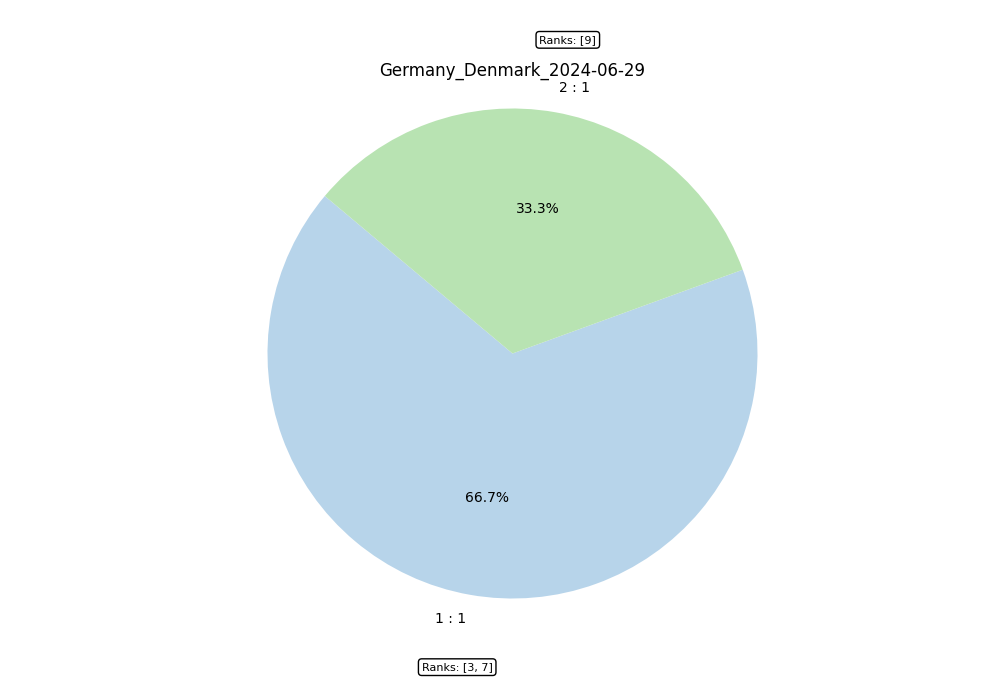
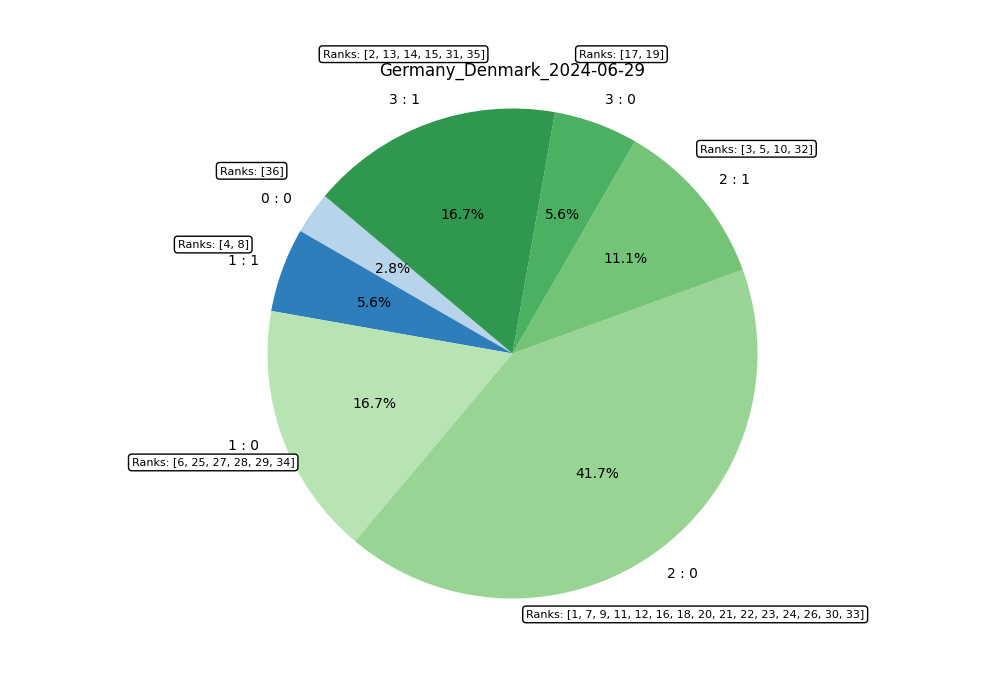
add guesses

diff --git a/spot_5.py b/spot_5.py
@@ -10,6 +10,9 @@ import matplotlib.pyplot as plt
 from collections import Counter
 import numpy as np
 from tqdm import tqdm
+import datetime
+import json
+
 
 
 def get_game_guesses(driver, game_id, rank):
@@ -59,7 +62,7 @@ def navigate_and_collect_guesses(game_id, group, total_pages=50):
         driver = webdriver.Chrome(service=service)
     elif group == "109":
         url = "https://hevre.sport5.co.il/#/group/665cc63c9e6263f82409e092"
-        total_pages = 10
+        total_pages = 36
         options = webdriver.ChromeOptions()
         options.add_argument("--no-sandbox")
         options.add_argument("--disable-dev-shm-usage")
@@ -84,7 +87,12 @@ def navigate_and_collect_guesses(game_id, group, total_pages=50):
             next_button = WebDriverWait(driver, 10).until(
                 EC.element_to_be_clickable((By.XPATH, next_button_xpath))
             )
-            next_button.click()
+
+            # Scroll the element into view
+            driver.execute_script("arguments[0].scrollIntoView(true);", next_button)
+
+            # Click the element using JavaScript
+            driver.execute_script("arguments[0].click();", next_button)
 
             # Wait for the page to load
             WebDriverWait(driver, 10).until(
@@ -108,7 +116,7 @@ def navigate_and_collect_guesses(game_id, group, total_pages=50):
     return all_guesses
 
 
-def plot_guesses(guesses, team1_name, team2_name, scheduled, save_path, game_id, to_show=False):
+def plot_guesses(guesses, team1_name, team2_name, save_path, game_id, to_show=False):
     # Extract the 'guess' values and 'rank' values
     guess_values = [guess['guess'] for guess in guesses]
     guess_ranks = [guess['rank'] for guess in guesses]
@@ -169,8 +177,9 @@ def plot_guesses(guesses, team1_name, team2_name, scheduled, save_path, game_id,
     # Combine color maps
     colors = np.concatenate([color_map_equal, color_map_greater, color_map_less, color_special])
 
-    scheduled = scheduled.split(" ")[0]
-    title = f"{team1_name}_{team2_name}_{scheduled}"
+    update_time = datetime.datetime.now().strftime("%Y-%m-%d %H:%M:%S")
+
+    title = f"{team1_name}_{team2_name}_{update_time}"
 
     # Create pie chart
     plt.figure(figsize=(10, 7))
@@ -197,3 +206,23 @@ def plot_guesses(guesses, team1_name, team2_name, scheduled, save_path, game_id,
         # Show the pie chart
         plt.show()
 
+
+def load_predictions(filename="games.json"):
+    with open(filename, 'r') as f:
+        return json.load(f)
+
+
+def update_plots(ids):
+    games = load_predictions()
+    groups = ["top", "109"]
+    for game in games:
+        if game["id"] in ids:
+            for group in groups:
+                all_guesses = navigate_and_collect_guesses(game["sport_5_id"], group)
+                plot_guesses(all_guesses, game["team1"], game["team2"], group, game["id"])
+
+
+"""
+ids = ['38', '39', '40', '41']
+update_plots(ids)
+"""

diff --git a/app.py b/app.py
@@ -70,7 +70,7 @@ def refresh_betting_info():
     if game:
         sport5_id = game["sport_5_id"]
         all_guesses = s5.navigate_and_collect_guesses(sport5_id, password)
-        s5.plot_guesses(all_guesses, game["team1"], game["team2"], game["scheduled"], password, game_id)
+        s5.plot_guesses(all_guesses, game["team1"], game["team2"], password, game_id)
         # HERE I WANT THE WEBSITE TO GO TO MY PNG DISPLAY PAGE
         return make_response("", 204)  # No Content
     return jsonify({"error": "Game not found"}), 404
